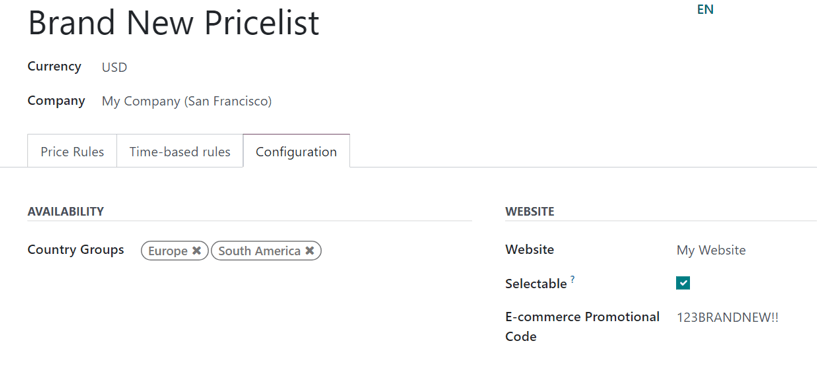
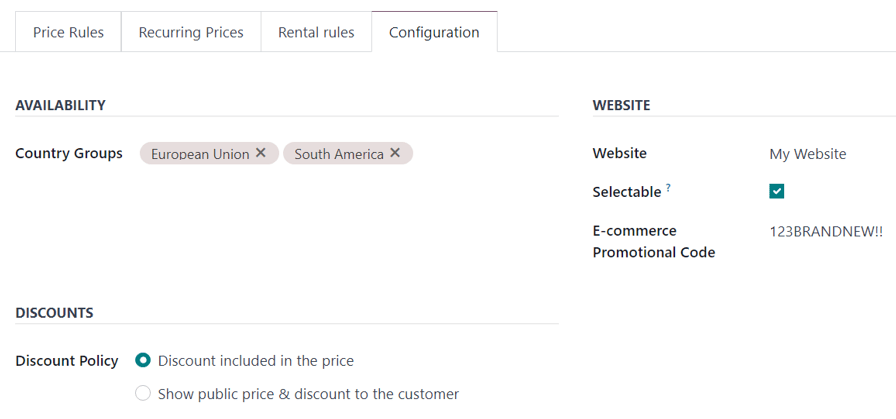
[IMP] sales: update pricelist info
X-original-commit: e87a500e06df3dfabbb920b1231098cc2894d192

diff --git a/content/applications/sales/sales/products_prices/prices/pricing.rst b/content/applications/sales/sales/products_prices/prices/pricing.rst
@@ -61,6 +61,14 @@ modified at any time.
    The :guilabel:`Public Pricelist` is the default pricelist used with Odoo *Sales* and *eCommerce*.
    This pricelist is applied by default, if there are no matching criteria.
 
+.. note::
+   In Odoo 17 (and above), it is no longer required to have a pricelist entered in the
+   :guilabel:`Pricelist` field on a quotation form in order to confirm it (i.e. turn it into a sales
+   order).
+
+   It should also be noted that, in Odoo 17 (and above), a chatter section can be found on pricelist
+   forms, which enhances the ability to communicate about them.
+
 From the :guilabel:`Pricelists` page, either select the desired pricelist to edit, or click
 :guilabel:`New` to create a new pricelist, which reveals a blank pricelist form that can be
 configured in a number of different ways.
@@ -76,7 +84,7 @@ Then, if working in a multi-company environment, select which company this price
 in the :guilabel:`Company` field. If this field is left blank, the pricelist is automatically
 applied to all companies in the database.
 
-Price rules tab
+Price Rules tab
 ---------------
 
 The :guilabel:`Price Rules` tab functionality on a pricelist form varies depending on the
@@ -86,8 +94,8 @@ The :guilabel:`Price Rules` tab functionality on a pricelist form varies dependi
 However, the :guilabel:`Time-based rules` tab and :guilabel:`Configuration` tab are always the same,
 regardless of the chosen :guilabel:`Pricelists` setting.
 
-Price rules tab (multiple prices per product)
-~~~~~~~~~~~~~~~~~~~~~~~~~~~~~~~~~~~~~~~~~~~~~
+Multiple prices per product
+~~~~~~~~~~~~~~~~~~~~~~~~~~~
 
 With the :guilabel:`Multiple prices per product` setting activated, the :guilabel:`Price Rules` tab
 on pricelist forms provides the option to add specific products, with a specific price, to a
@@ -114,8 +122,8 @@ limit to how many products can be added in the :guilabel:`Price Rules` tab of a 
 For more information, check out the following section: :ref:`Multiple prices per product
 <sales/multiple-prices-per-product>`.
 
-Price rules tab (advanced price rules)
-~~~~~~~~~~~~~~~~~~~~~~~~~~~~~~~~~~~~~~
+Advanced price rules
+~~~~~~~~~~~~~~~~~~~~
 
 With the :guilabel:`Advanced price rules (discounts, formulas)` setting activated, the
 :guilabel:`Price Rules` tab on pricelist forms provides the option to configure detailed price rules
@@ -124,37 +132,52 @@ based on formulas.
 Check out the :ref:`Advanced price rules (discounts, formulas) <sales/advanced-price-rules>` section
 for detailed steps on how to add advanced price rules to a pricelist.
 
-Time-based rules tab
+Recurring Prices tab
 --------------------
 
-Time-based rules are used specifically with :doc:`subscription products
-</applications/sales/subscriptions/products>`. Be sure to check out the Odoo *Subscriptions*
-:doc:`documentation </applications/sales/subscriptions>`.
+Recurring prices are specifically used with :doc:`subscription products
+<../../../subscriptions/products>`.
 
-Under the :guilabel:`Time-based rules` tab, the same functionality of the :guilabel:`Price Rules`
-tab is present, with the only difference being that a repeating time period can be applied in the
-:guilabel:`Period` column.
+Under the :guilabel:`Recurring Prices` tab, the same functionality of the :guilabel:`Price Rules`
+tab is present. The only difference being that a recurring time period can be applied in the
+:guilabel:`Recurring Plan` column.
 
-After a :guilabel:`Product` and potential :guilabel:`Variant` are selected in the
-:guilabel:`Time-based rules` tab, select the blank field in the :guilabel:`Period` column to reveal
-a drop-down menu of pre-designated recurrence periods (e.g. `Monthly`, `Quarterly`, `Weekly`, etc.).
+Once :guilabel:`Products` and/or :guilabel:`Product Variants` are selected, click :guilabel:`Add a
+price rule`, and select the blank field in the :guilabel:`Recurring Plan` column to reveal a
+drop-down menu of pre-designated recurrence periods (e.g. `Monthly`, `Quarterly`, `Weekly`, etc.).
 
-New recurrence periods can also be directly created from this column, by typing in the new name for
-the :guilabel:`Period` and then selecting :guilabel:`Create` to create the time period, which can be
-edited later. Or, select :guilabel:`Create and edit...` to reveal a pop-up form, in which the new
-recurrence period can be directly configured.
+New recurrence periods can also be created from this column. To do so, type in the name for the new
+:guilabel:`Recurring Plan`, then select :guilabel:`Create` from the resulting drop-down menu to
+create the time period, which can be edited later.
+
+Or, select :guilabel:`Create and edit...` to reveal a :guilabel:`Create Recurring Plan` pop-up form.
+From this pop-up form, the new recurrence period can be configured, with specific
+:guilabel:`Details`, :guilabel:`Self-Service`, and :guilabel:`Pricing` options. When the
+configurations are complete, click the :guilabel:`Save & Close` button.
 
 .. image:: pricing/time-period-popup.png
    :align: center
    :alt: Custom time period pop-up form in Odoo Sales.
 
-From this :guilabel:`Create Period` pop-up form, add a :guilabel:`Name`, :guilabel:`Duration`, then
-a :guilabel:`Unit` (e.g. `Days`, `Weeks`, etc.). When finished, click :guilabel:`Save and Close`.
-
-Lastly, add the desired price for this time-based rule in the :guilabel:`Price` column.
+Lastly, add the desired price for this recurring price rule in the :guilabel:`Recurring Price`
+column.
 
 .. seealso::
-   :doc:`/applications/sales/subscriptions`
+   :doc:`../../../subscriptions`
+
+Rental rules tab
+----------------
+
+Under the :guilabel:`Rental rules` tab, specific price rules can be configured for various rental
+products, using the same methodology as the :guilabel:`Price Rules` and :guilabel:`Recurring Prices`
+tabs.
+
+To add a rental rule, click :guilabel:`Add a line`, and select a desired product in the
+:guilabel:`Products` column. Then, select any specific :guilabel:`Variants`, if necessary.
+
+Next, designate a :guilabel:`Period` of time for the rental rule (e.g. `Daily`, `Hourly`, etc.).
+
+Lastly, configure a :guilabel:`Price` for the rental rule in the respective column.
 
 Configuration tab
 -----------------
@@ -175,45 +198,24 @@ can be added in this field.
 
 Under the :guilabel:`Website` section, there are a few options that can be configured. In the
 :guilabel:`Website` field, this pricelist can be applied to a specific website, if working in a
-multi-website environment. If left blank, the pricelist will be applied to all websites in the
-database.
+multi-website environment. If left blank, the pricelist is applied to all websites in the database.
 
-Click the :guilabel:`Selectable` checkbox to have this pricelist as a selectable option for
-customers to choose as they shop. If the :guilabel:`Selectable` box is left unchecked, customers
-**cannot** select this pricelist for themselves as they shop.
+Tick the :guilabel:`Selectable` checkbox to have this pricelist as a selectable option for
+customers to choose as they shop. If the :guilabel:`Selectable` box is left unticked, customers
+**cannot** select this pricelist for themselves.
 
 Lastly, there is the option to add an :guilabel:`E-commerce Promotional Code`. To add a code, type
 in the desired promo code that, when entered during the checkout process, applies the pricelist to
 the customer, even if the customer does not fall into the previously-specified criteria.
 
-Show discount percentage to customers
-~~~~~~~~~~~~~~~~~~~~~~~~~~~~~~~~~~~~~
+Then, in the :guilabel:`Discounts` section, there is a :guilabel:`Discount Policy` field with two
+options to choose from: :guilabel:`Discount included in the price` or :guilabel:`Show public price &
+discount to the customer`.
 
-With Odoo *Sales*, the option to show the public price *and* the computed discount percentage on the
-product catalog is available.
-
-To do that, navigate to :menuselection:`Sales app --> Configuration --> Settings`, and in the
-:guilabel:`Pricing` section, click the checkbox next to the :guilabel:`Discounts` feature, and then
-click :guilabel:`Save` to save all changes.
-
-After activating the :guilabel:`Discounts` feature, navigate to the pricelists page, either by
-clicking the :guilabel:`Pricelists` link from the :guilabel:`Settings` page, or by going to
-:menuselection:`Sales app --> Products --> Pricelists`.
-
-On the :guilabel:`Pricelists` page, select the desired pricelist to edit. On the pricelist form,
-click into the :guilabel:`Configuration` tab. In the :guilabel:`Configuration` tab, at the bottom, a
-:guilabel:`Discounts` section is now available.
-
-.. image:: pricing/configuration-discount-options.png
-   :align: center
-   :alt: What the discount options are on the configuration tab of a pricelist in Odoo Sales.
-
-The options available in this section are:
-
-- :guilabel:`Discount included in the price`: shows the customer only the final price with the
-  discount already included.
-- :guilabel:`Show public price & discount to the customer`: shows the customer the public price
-  *and* the discount they're earning.
+If :guilabel:`Discount included in the price` is selected, the price shown to the customer already
+accounts for the discount being applied. However, if :guilabel:`Show public price & discount to the
+customer` is selected, the customer sees the actual public price *and* how much they are saving with
+this pricelist discount.
 
 Customer pricelist application
 ==============================
@@ -236,6 +238,16 @@ the drop-down menu in the :guilabel:`Pricelist` field.
 .. image:: pricing/customer-form-pricelist-field.png
    :align: center
    :alt: The pricelist field in a customer detail form in Odoo Sales.
+
+.. note::
+   When a customer is added to the database, the default pricelist is automatically applied to them.
+   There is **no way** to have a blank *Pricelist* field on a contact form. Even if that field is
+   left blank, the default pricelist appears when that contact form is opened again.
+
+   However, when that contact is added to a quotation, and the *Pricelist* field is auto-populated
+   (based on the information from their contact form), that predetermined pricelist can be removed
+   from the *Pricelist* field, and the quotation can still be confirmed, and subsequently, turned
+   into a sales order.
 
 .. _sales/multiple-prices-per-product:
 
